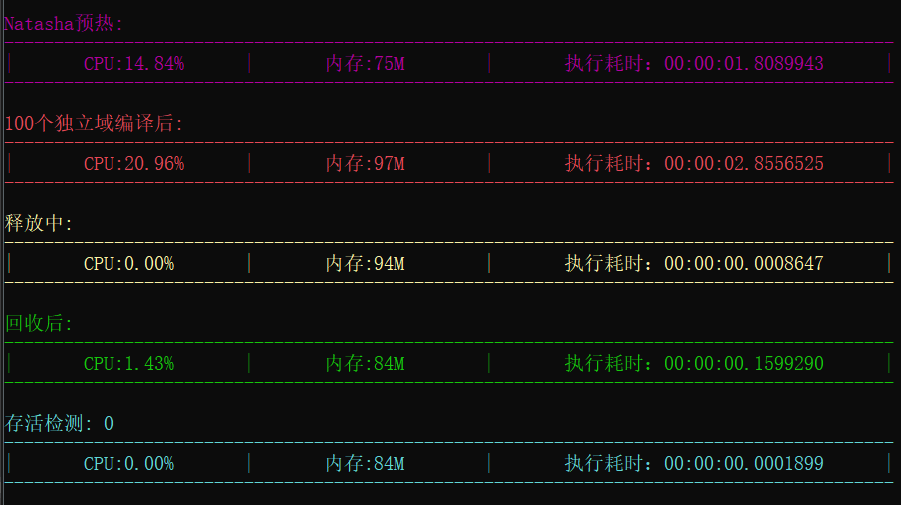
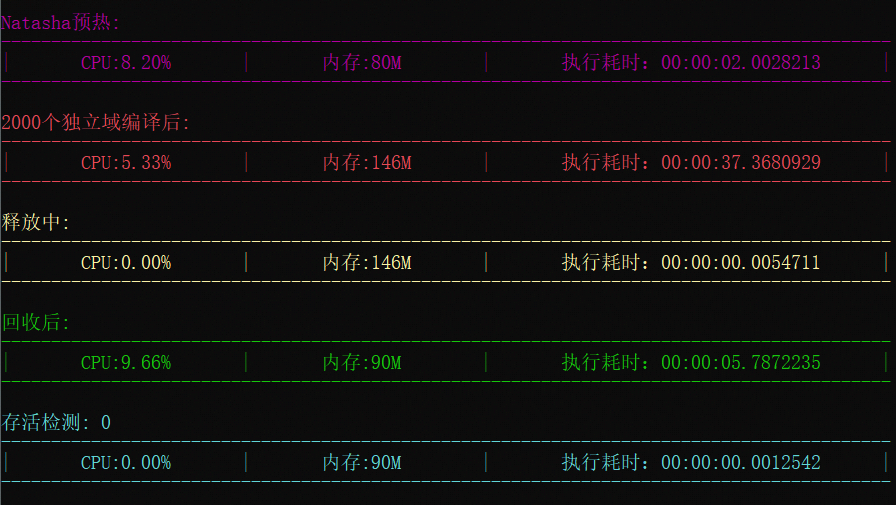
修复测试样例

diff --git a/test/UnloadTest31/Program.cs b/test/UnloadTest31/Program.cs
@@ -1,7 +1,5 @@
 using Natasha;
-using Natasha.Core;
 using Natasha.Log;
-using Natasha.Operator;
 using System;
 using System.Diagnostics;
 using System.Runtime.CompilerServices;
@@ -11,18 +9,20 @@ namespace UnloadTest31
 {
     class Program
     {
-        const int count = 1000;
-        static Type[] func = new Type[1000];
+        const int count = 2000;
+        static Type[] func = new Type[count];
+        static Type tempType;
         static void Main(string[] args)
         {
-
+            NError.Enabled = false;
             NSucceed.Enabled = false;
             NWarning.Enabled = false;
-
-            var preTime = Process.GetCurrentProcess().TotalProcessorTime;
             Stopwatch watch = new Stopwatch();
+            double tempTotleTime;
+            #region Natasha Preheating
+            var preTime = Process.GetCurrentProcess().TotalProcessorTime;
             watch.Start();
-            var  type = NClass.Create("tes1t")
+            tempType = NClass.Create("tes1t")
                     .Namespace("Test")
                     .UseRandomOopName()
                     .PublicField<string>("Name")
@@ -31,59 +31,109 @@ namespace UnloadTest31
                     .Ctor(item => item.Body("Temp = new int[40960];"))
                     .GetType();
             watch.Stop();
+            tempTotleTime = GetCpu(Process.GetCurrentProcess().TotalProcessorTime, preTime);
+            if (watch.Elapsed.Seconds > 0)
+            {
+                tempTotleTime = tempTotleTime / watch.Elapsed.Seconds;
+            }
             Console.WriteLine();
-            var temp = Process.GetCurrentProcess();
             Console.ForegroundColor = ConsoleColor.Magenta;
             Console.WriteLine("Natasha预热:");
             Console.WriteLine("-----------------------------------------------------------------------------------------");
-            Console.WriteLine($"|\tCPU:{GetCpu(Process.GetCurrentProcess().TotalProcessorTime, preTime).ToString("f2")}%\t|\t内存:{Process.GetCurrentProcess().PrivateMemorySize64 /1024/1024}M\t|\t执行耗时：{watch.Elapsed}\t|");
+            Console.WriteLine($"|\tCPU:{tempTotleTime.ToString("f2")}%\t|\t内存:{Process.GetCurrentProcess().PrivateMemorySize64 / 1024 / 1024}M\t|\t执行耗时：{watch.Elapsed}\t|");
             Console.WriteLine("-----------------------------------------------------------------------------------------");
-            Thread.Sleep(3000);
+            #endregion
+
+            Thread.Sleep(1000);
+
+            #region Run Complier
             preTime = Process.GetCurrentProcess().TotalProcessorTime;
             watch.Restart();
             Test();
             watch.Stop();
+            tempTotleTime = GetCpu(Process.GetCurrentProcess().TotalProcessorTime, preTime);
+            if (watch.Elapsed.Seconds > 0)
+            {
+                tempTotleTime = tempTotleTime / watch.Elapsed.Seconds;
+            }
             Console.WriteLine();
             Console.ForegroundColor = ConsoleColor.Red;
-            Console.WriteLine("100个独立域编译后:");
+            Console.WriteLine($"{count}个独立域编译后:");
             Console.WriteLine("-----------------------------------------------------------------------------------------");
-            Console.WriteLine($"|\tCPU:{GetCpu(Process.GetCurrentProcess().TotalProcessorTime, preTime).ToString("f2")}%\t|\t内存:{Process.GetCurrentProcess().PrivateMemorySize64 / 1024 / 1024}M\t|\t执行耗时：{watch.Elapsed}\t|");
+            Console.WriteLine($"|\tCPU:{tempTotleTime.ToString("f2")}%\t|\t内存:{Process.GetCurrentProcess().PrivateMemorySize64 / 1024 / 1024}M\t|\t执行耗时：{watch.Elapsed}\t|");
             Console.WriteLine("-----------------------------------------------------------------------------------------");
-            Thread.Sleep(3000);
+            #endregion
+
+            Thread.Sleep(1000);
+
+            #region Release Handler
             preTime = Process.GetCurrentProcess().TotalProcessorTime;
             watch.Restart();
             Release();
             watch.Stop();
+            tempTotleTime = GetCpu(Process.GetCurrentProcess().TotalProcessorTime, preTime);
+            if (watch.Elapsed.Seconds > 0)
+            {
+                tempTotleTime = tempTotleTime / watch.Elapsed.Seconds;
+            }
             Console.WriteLine();
             Console.ForegroundColor = ConsoleColor.Yellow;
             Console.WriteLine("释放中:");
             Console.WriteLine("-----------------------------------------------------------------------------------------");
-            Console.WriteLine($"|\tCPU:{GetCpu(Process.GetCurrentProcess().TotalProcessorTime, preTime).ToString("f2")}%\t|\t内存:{Process.GetCurrentProcess().PrivateMemorySize64 / 1024 / 1024}M\t|\t执行耗时：{watch.Elapsed}\t|");
+            Console.WriteLine($"|\tCPU:{tempTotleTime.ToString("f2")}%\t|\t内存:{Process.GetCurrentProcess().PrivateMemorySize64 / 1024 / 1024}M\t|\t执行耗时：{watch.Elapsed}\t|");
             Console.WriteLine("-----------------------------------------------------------------------------------------");
-            Thread.Sleep(3000);
+            #endregion
+
+            Thread.Sleep(1000);
+            #region Run GC
             preTime = Process.GetCurrentProcess().TotalProcessorTime;
             watch.Restart();
             RunGc();
             watch.Stop();
+            tempTotleTime = GetCpu(Process.GetCurrentProcess().TotalProcessorTime, preTime);
+            if (watch.Elapsed.Seconds>0)
+            {
+                tempTotleTime = tempTotleTime / watch.Elapsed.Seconds;
+            }
             Console.ForegroundColor = ConsoleColor.Green;
             Console.WriteLine();
             Console.WriteLine("回收后:");
             Console.WriteLine("-----------------------------------------------------------------------------------------");
-            Console.WriteLine($"|\tCPU:{GetCpu(Process.GetCurrentProcess().TotalProcessorTime, preTime).ToString("f2")}%\t|\t内存:{Process.GetCurrentProcess().PrivateMemorySize64 / 1024 / 1024}M\t|\t执行耗时：{watch.Elapsed}\t|");
+            Console.WriteLine($"|\tCPU:{tempTotleTime.ToString("f2")}%\t|\t内存:{Process.GetCurrentProcess().PrivateMemorySize64 / 1024 / 1024}M\t|\t执行耗时：{watch.Elapsed}\t|");
             Console.WriteLine("-----------------------------------------------------------------------------------------");
+            #endregion
+
+            Thread.Sleep(1000);
+
+            #region Check Alive
             preTime = Process.GetCurrentProcess().TotalProcessorTime;
             watch.Restart();
             var alive = CheckAlive();
             DomainManagment.Clear();
             watch.Stop();
-            func = null;
-            Thread.Sleep(4000);
+            tempTotleTime = GetCpu(Process.GetCurrentProcess().TotalProcessorTime, preTime);
+            if (watch.Elapsed.Seconds > 0)
+            {
+                tempTotleTime = tempTotleTime / watch.Elapsed.Seconds;
+            }
             Console.ForegroundColor = ConsoleColor.Cyan;
             Console.WriteLine();
             Console.WriteLine($"存活检测: {alive}");
             Console.WriteLine("-----------------------------------------------------------------------------------------");
-            Console.WriteLine($"|\tCPU:{GetCpu(Process.GetCurrentProcess().TotalProcessorTime, preTime).ToString("f2")}%\t|\t内存:{Process.GetCurrentProcess().PrivateMemorySize64/1024/1024}M\t|\t执行耗时：{watch.Elapsed}\t|");
+            Console.WriteLine($"|\tCPU:{tempTotleTime.ToString("f2")}%\t|\t内存:{Process.GetCurrentProcess().PrivateMemorySize64 / 1024 / 1024}M\t|\t执行耗时：{watch.Elapsed}\t|");
             Console.WriteLine("-----------------------------------------------------------------------------------------");
+            #endregion
+
+            //for (int i = 0; i < 10; i++)
+            //{
+            //    Thread.Sleep(3000);
+            //    preTime = Process.GetCurrentProcess().TotalProcessorTime;
+            //    Console.WriteLine($"第{i}次静默检测:");
+            //    Console.WriteLine("-----------------------------------------------------------------------------------------");
+            //    Console.WriteLine($"|\tCPU:{tempTotleTime.ToString("f2")}%\t|\t内存:{Process.GetCurrentProcess().PrivateMemorySize64 / 1024 / 1024}M\t|\t执行耗时：{watch.Elapsed}\t|");
+            //    Console.WriteLine("-----------------------------------------------------------------------------------------");
+            //}
+            
             Console.ReadKey();
 
         }
@@ -94,7 +144,7 @@ namespace UnloadTest31
 
             //间隔时间内的CPU运行时间除以逻辑CPU数量
 
-            return  (totleTime - preTime).TotalMilliseconds / 1000 / Environment.ProcessorCount * 100;
+            return (totleTime - preTime).TotalMilliseconds / 1000 / Environment.ProcessorCount * 100;
         }
 
         [MethodImpl(MethodImplOptions.NoInlining)]
@@ -123,6 +173,7 @@ namespace UnloadTest31
             for (int i = 0; i < 20; i++)
             {
                 GC.Collect();
+                //GC.Collect(2);
                 GC.WaitForPendingFinalizers();
             }
         }
@@ -131,7 +182,7 @@ namespace UnloadTest31
         [MethodImpl(MethodImplOptions.NoInlining)]
         public static void Release()
         {
-            
+
             for (int i = 0; i < count; i++)
             {
                 func[i] = null;
@@ -149,15 +200,24 @@ namespace UnloadTest31
 
             for (int i = 0; i < count; i++)
             {
-                var type= NClass.Create("test" + i.ToString())
-                    .Namespace("Test")
-                    .UseRandomOopName()
-                    .PublicField<string>("Name")
-                    .PublicField<string>("Age")
-                    .PublicField<int[]>("Temp")
-                    .Ctor(item => item.Body("Temp = new int[40960];"))
+                var type = NClass.Create("test" + i.ToString())
+                     .Namespace("Test")
+                     .UseRandomOopName()
+                     .PublicField<string>("Name")
+                     .PublicField<string>("Name1")
+                     .PublicField<string>("Name2")
+                     .PublicField<string>("Name3")
+                     .PublicField<string>("Name4")
+                     .PublicField<string>("Name5")
+                     .PublicField<string>("Age")
+                     .PublicField<int[]>("Temp")
+                     .Ctor(item => item.Body("Temp = new int[40960];"))
                     .GetType();
-                if (type==default)
+                //builder.Complier.SyntaxInfos.SyntaxExceptions.Clear();
+                //builder.Complier.SyntaxInfos.TreeCodeMapping.Clear();
+                //builder.Complier.SyntaxInfos.TreeUsingMapping.Clear();
+                //builder = null;
+                if (type == default)
                 {
                     throw new Exception("Bad Builder!");
                 }

diff --git a/src/Natasha.Core/ComplierModule/Framework/IComplier.Extension.cs b/src/Natasha.Core/ComplierModule/Framework/IComplier.Extension.cs
@@ -31,9 +31,10 @@ namespace Natasha.Core.Complier
 
             tree = CSharpSyntaxTree.ParseText(text.Trim(), _options);
             SyntaxNode root = Formatter.Format(tree.GetCompilationUnitRoot(), _workSpace);
+            _workSpace.ClearSolution();
             tree = root.SyntaxTree;
-            formatter = root.ToString();
-            errors = root.GetDiagnostics();
+            formatter = tree.ToString();
+            errors = tree.GetDiagnostics();
 
         }
 
